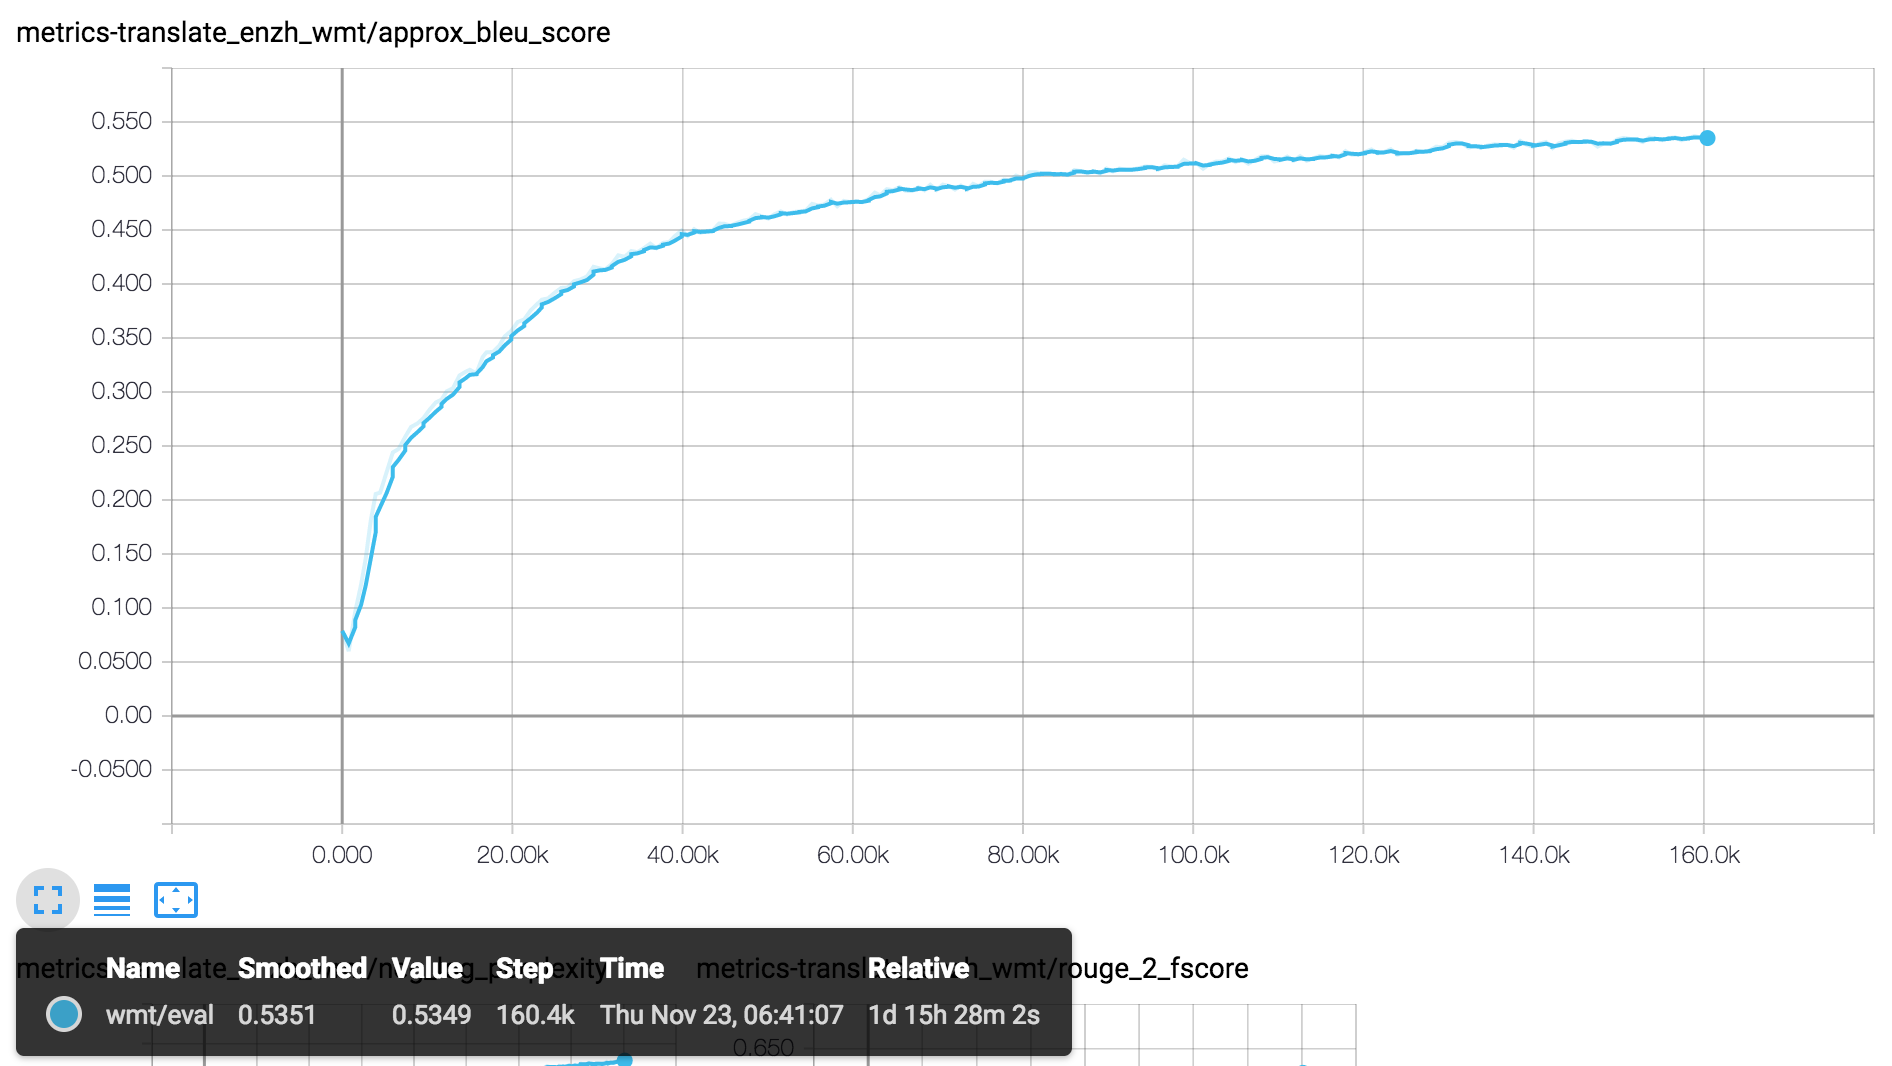
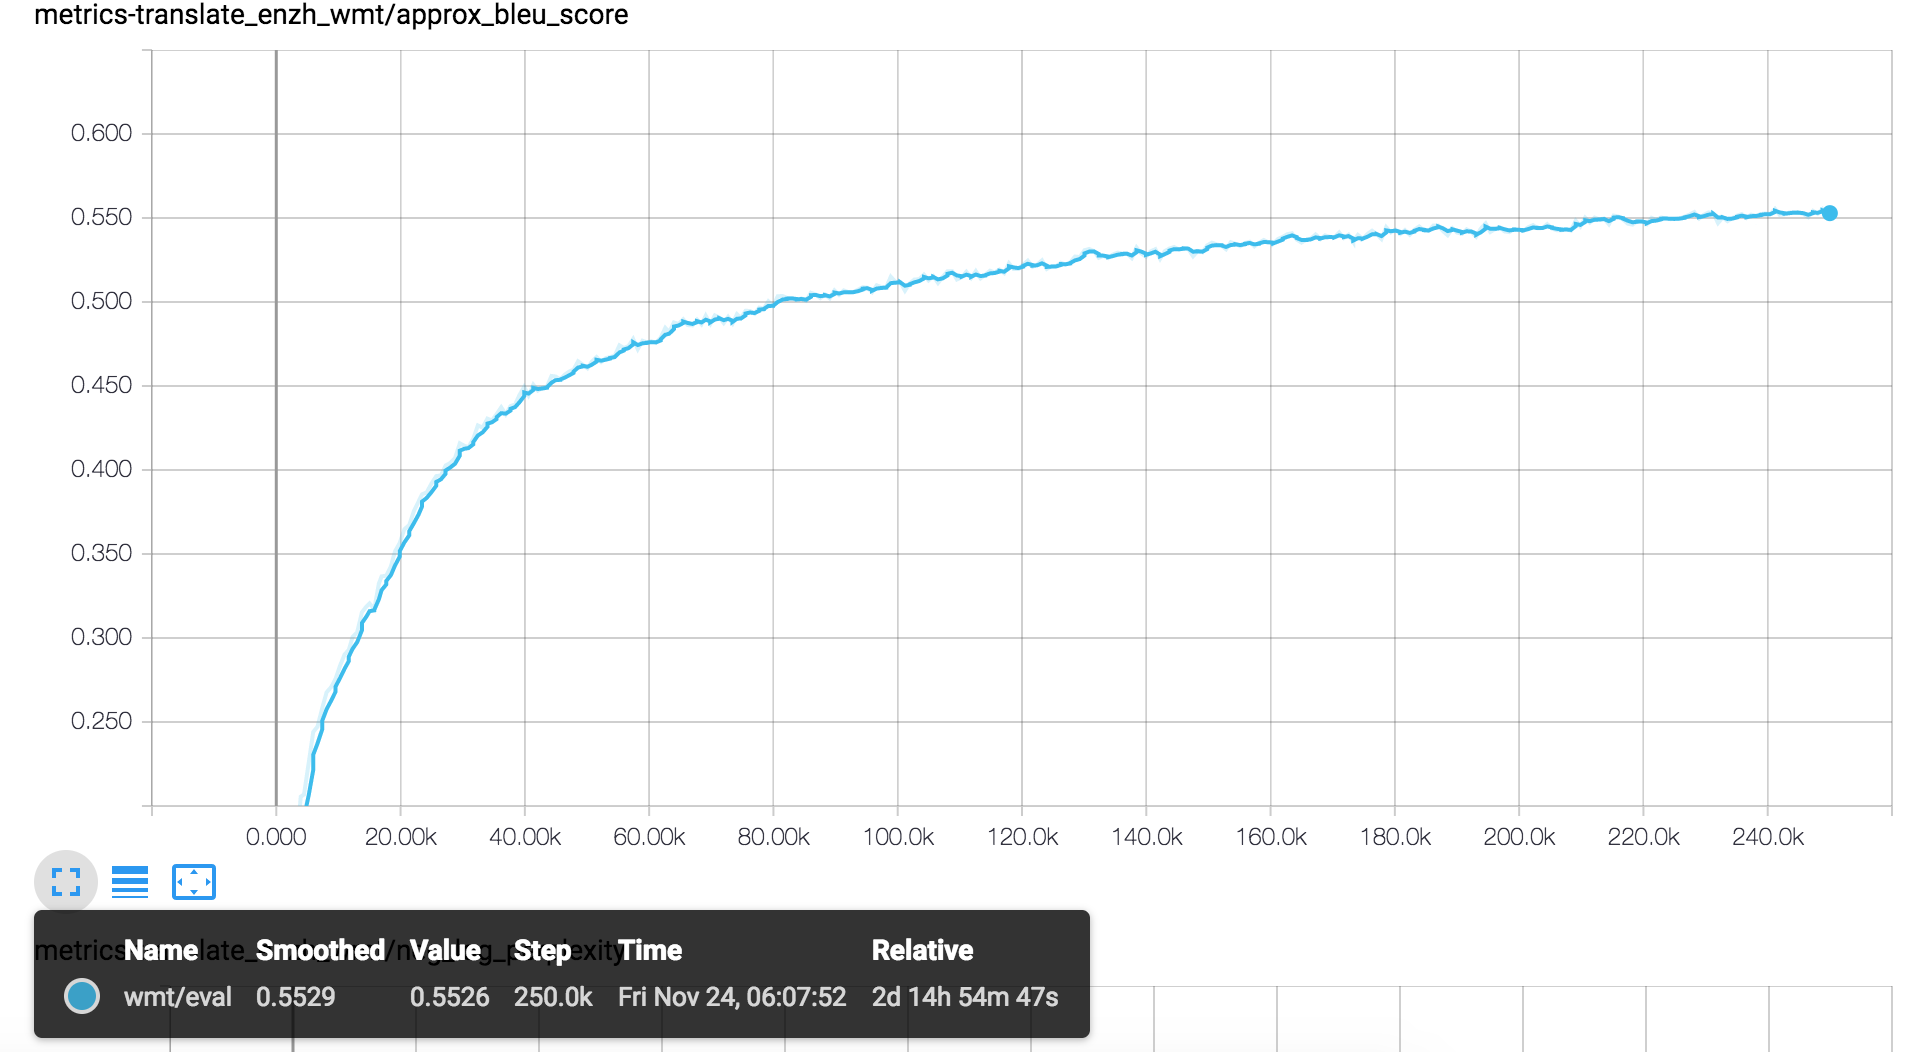
240k steps

diff --git a/data_generators/wmt.py b/data_generators/wmt.py
@@ -106,7 +106,7 @@ _CWMT_TRAIN_B_DATASETS= [
 # 2000 lines
 _ZHEN_TEST_DATASETS = [[
     "http://data.statmt.org/wmt17/translation-task/dev.tgz",
-    ("dev/newsdev2017-zhen-ref.en.sgm", "dev/newsdev2017-zhen-src.zh.sgm")
+    ("dev/newsdev2017-enzh-src.en.sgm", "dev/newsdev2017-enzh-ref.zh.sgm")
 ]]   
 
 @registry.register_problem

diff --git a/data_generators/base.py b/data_generators/base.py
@@ -32,7 +32,7 @@ _NC_TRAIN_DATASETS = [[
 # 2000 lines
 _NC_TEST_DATASETS = [[
     "http://data.statmt.org/wmt17/translation-task/dev.tgz",
-    ("dev/newsdev2017-zhen-ref.en.sgm", "dev/newsdev2017-zhen-src.zh.sgm")
+    ("dev/newsdev2017-enzh-src.en.sgm", "dev/newsdev2017-enzh-ref.zh.sgm")
 ]]   
 
 # 15,886,041 lines

diff --git a/README.md b/README.md
@@ -49,7 +49,7 @@ Uses jieba segmenter for Chinese corpus. Builds vocab size 32k.
 
 Experiment | Steps | BLEU4 
 -----------|-------|---------
-wmt-pp     | 160k  | 20.13
+wmt-pp     | 240k  | 21.72
 
 #### loss
 ![loss](results/wmt/loss.png)
